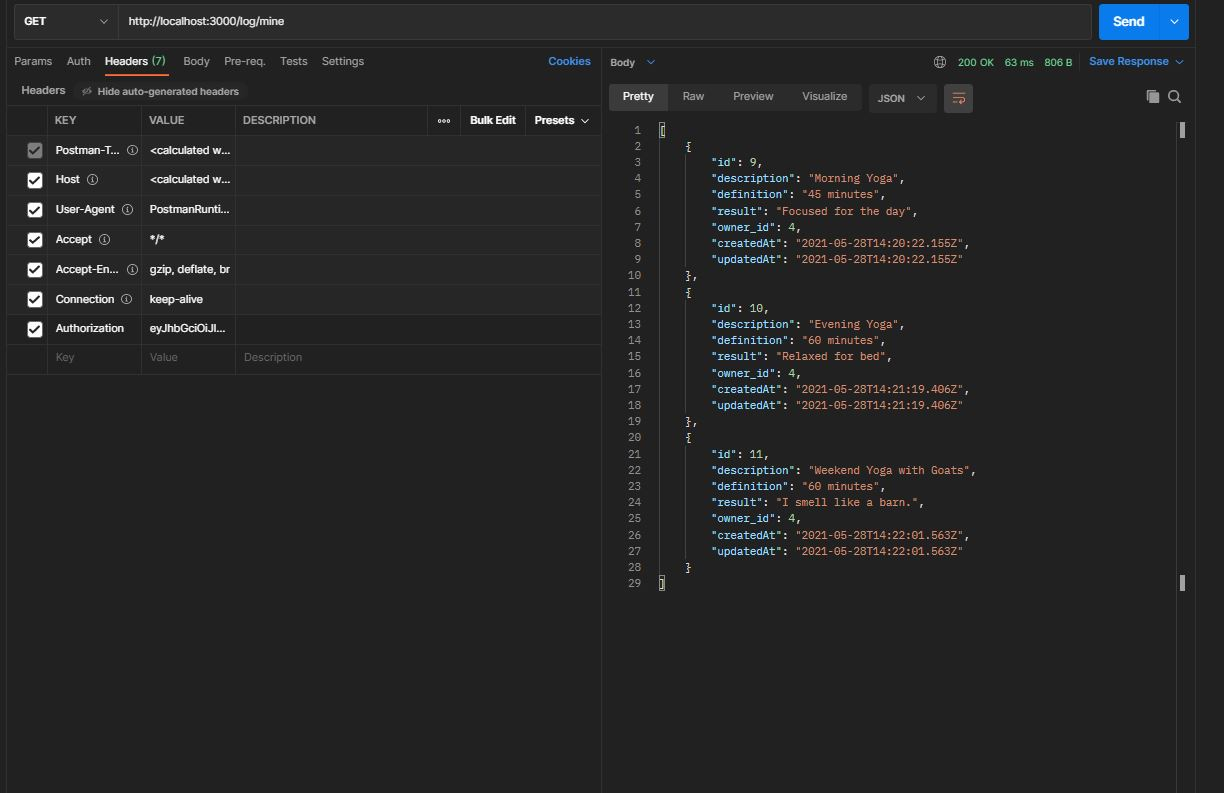
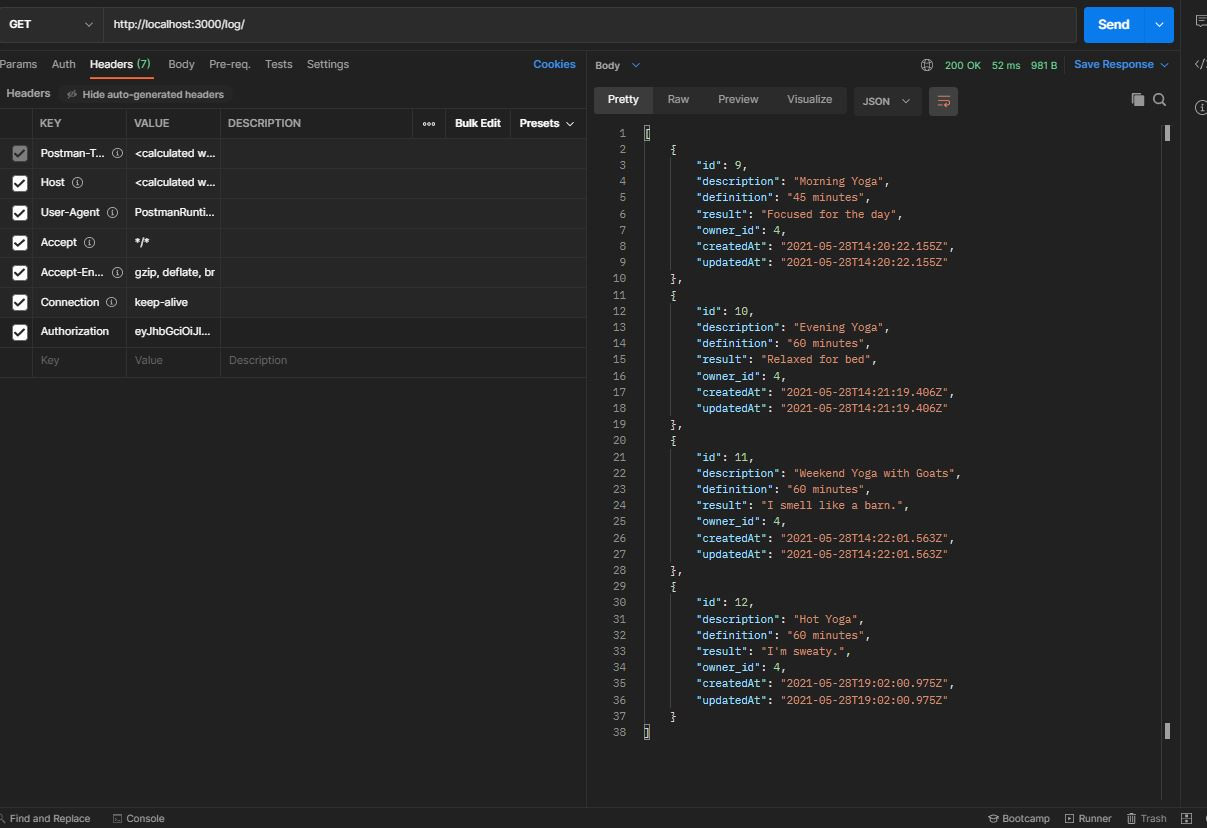
log endpoint names updated and update logs router added

diff --git a/controllers/logcontroller.js b/controllers/logcontroller.js
@@ -8,7 +8,7 @@ const middleware = require("../middleware");
 ===============
 */
 
-router.post('/create', middleware.validateSession, async (req, res) =>{
+router.post('/', middleware.validateSession, async (req, res) =>{
     const {description, definition, result} = req.body.log;
     const {id} = req.user;
     const logEntry = {
@@ -33,7 +33,7 @@ router.post('/create', middleware.validateSession, async (req, res) =>{
 ====================
  */
 
-router.get("/mine", middleware.validateSession, async(req, res) => {
+router.get("/", middleware.validateSession, async(req, res) => {
     let {id} = req.user;
     try{
         const userLogs = await LogModel.findAll({
@@ -55,8 +55,8 @@ router.get("/mine", middleware.validateSession, async(req, res) => {
 =======================
 */
 
-router.get("/mine/:entryId", middleware.validateSession, async(req, res) => {
-    const logId = req.params.entryId;
+router.get("/:id", middleware.validateSession, async(req, res) => {
+    const logId = req.params.id;
     const userId = req.user.id;
     try {
     const results = await LogModel.findAll({
@@ -80,7 +80,36 @@ router.get("/mine/:entryId", middleware.validateSession, async(req, res) => {
 * UPDATE LOGS 
 =======================
 */
+router.put("/:id", middleware.validateSession, async (req, res) => {
+    const { description, definition, result } = req.body;
+    const logId = req.params.id;
+    const userId = req.user.id;
 
+    // const query = {
+    //     where: {
+    //         id: logId,
+    //         owner_id: userId
+    //     }
+    // };
+
+    // const updatedLog = {
+    //     description: description,
+    //     definition: definition,
+    //     result: result
+    // };
+
+    try {
+        const update = await LogModel.update({description, definition, result},
+            {where: {id: logId, owner_id:userId }});
+        res.status(200).json({
+            update,
+            message: "Log has been updated."});
+    } catch (err) {
+        res.status(500).json({ 
+            message: "Unable to update log",
+            error: err});
+    }
+});
 
 
 
